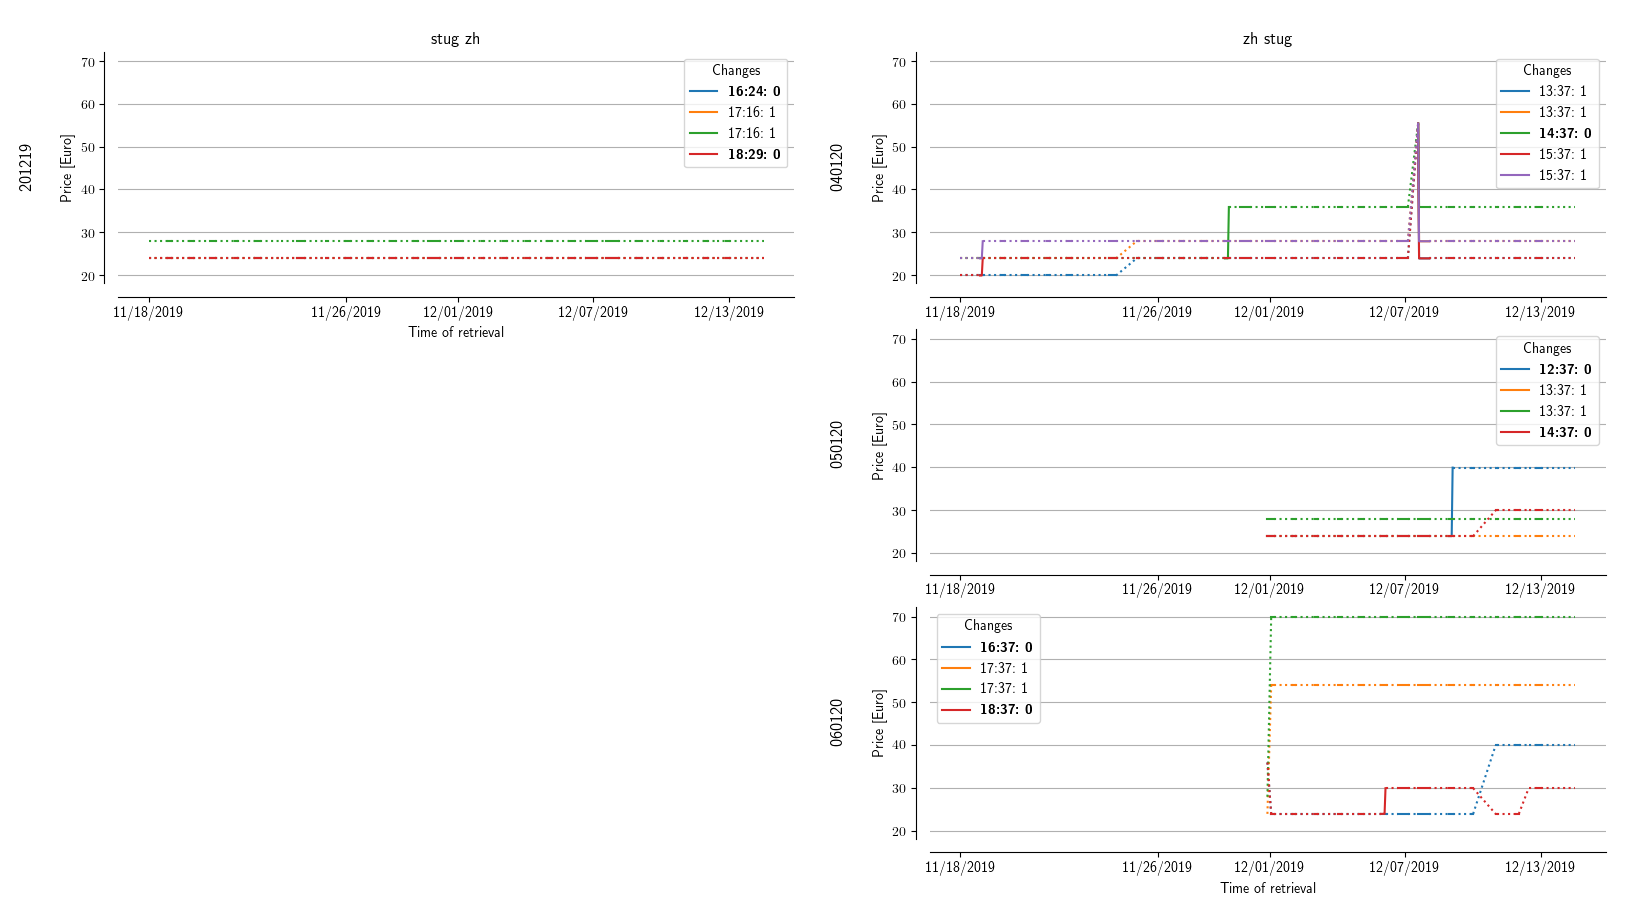
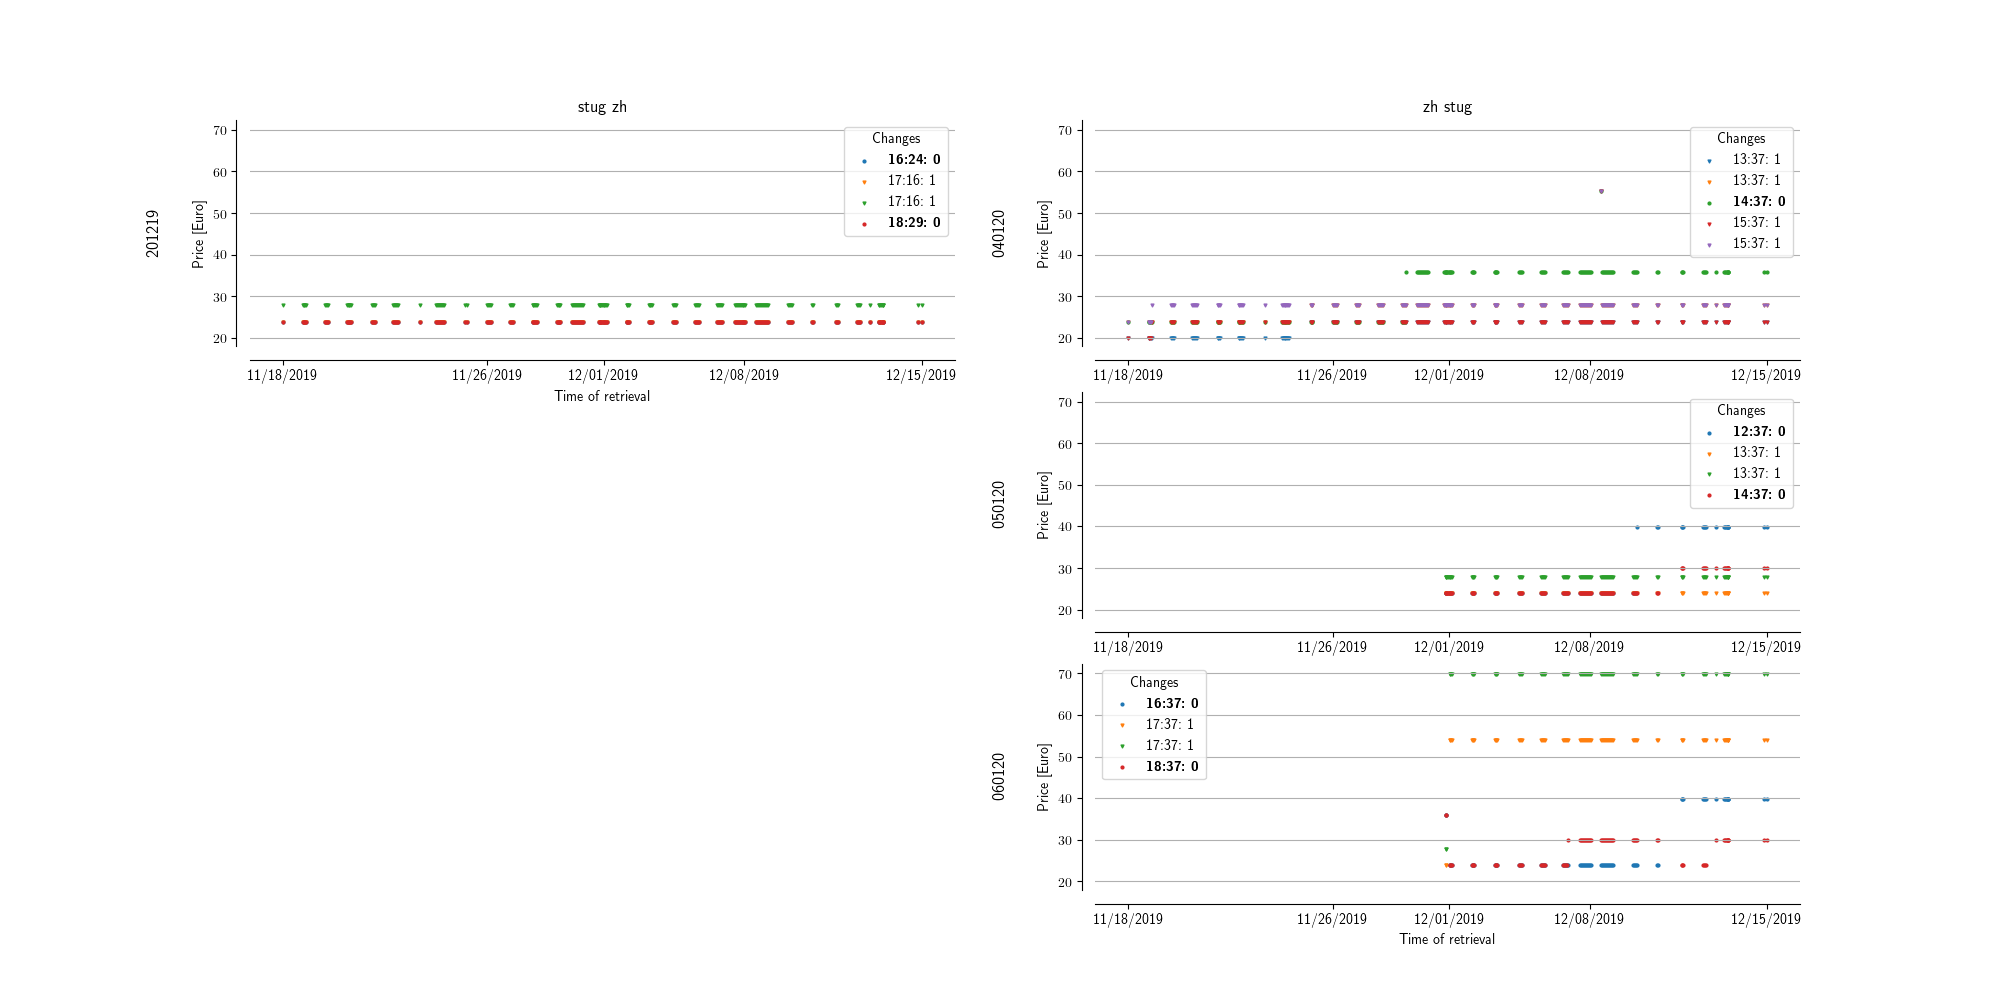
Add updated graphs to db-post

diff --git a/_posts/2019-12-15-Deutsche-Bahn.md b/_posts/2019-12-15-Deutsche-Bahn.md
@@ -29,14 +29,16 @@ I wrote a script<sup>2</sup> to scrape the prices for a few of the connections t
 The resulting pricing data for a month for one of the connections is below:
 
 <div style="width: 100%; text-align: center">
-    <img src="{{ site.url }}/assets/db-tracking/040120_initial.png" style="width:100%;padding: 10px;">
+    <img src="{{ site.url }}/assets/db-tracking/040120.png" style="width:100%;padding: 10px;">
 </div>
+
+There are approximately 160 datapoints for each of the connections in the plot above. Unfortunately, since I ran the script on my personal computer, I do only have datapoints during the evenings (when my laptop at home was turned on).
 
 Some initial observations:
 - The price is not strictly increasing the closer we get to the date of travel
 - Different iternaries behave differently over time
 
-Comparing this to some more collected data (I only scraped the connections/days that are actually relevant for my upcoming travel to Switzerland over the christmas holidays):
+Comparing this to some more collected data (I only scraped the connections/days that are actually relevant for my upcoming travel to Switzerland over the christmas holidays - Check out the image in a separate tab for a larger version):
 
 <div style="width: 100%; text-align: center">
     <img src="{{ site.url }}/assets/db-tracking/full.png" style="width:100%;padding: 10px;">
